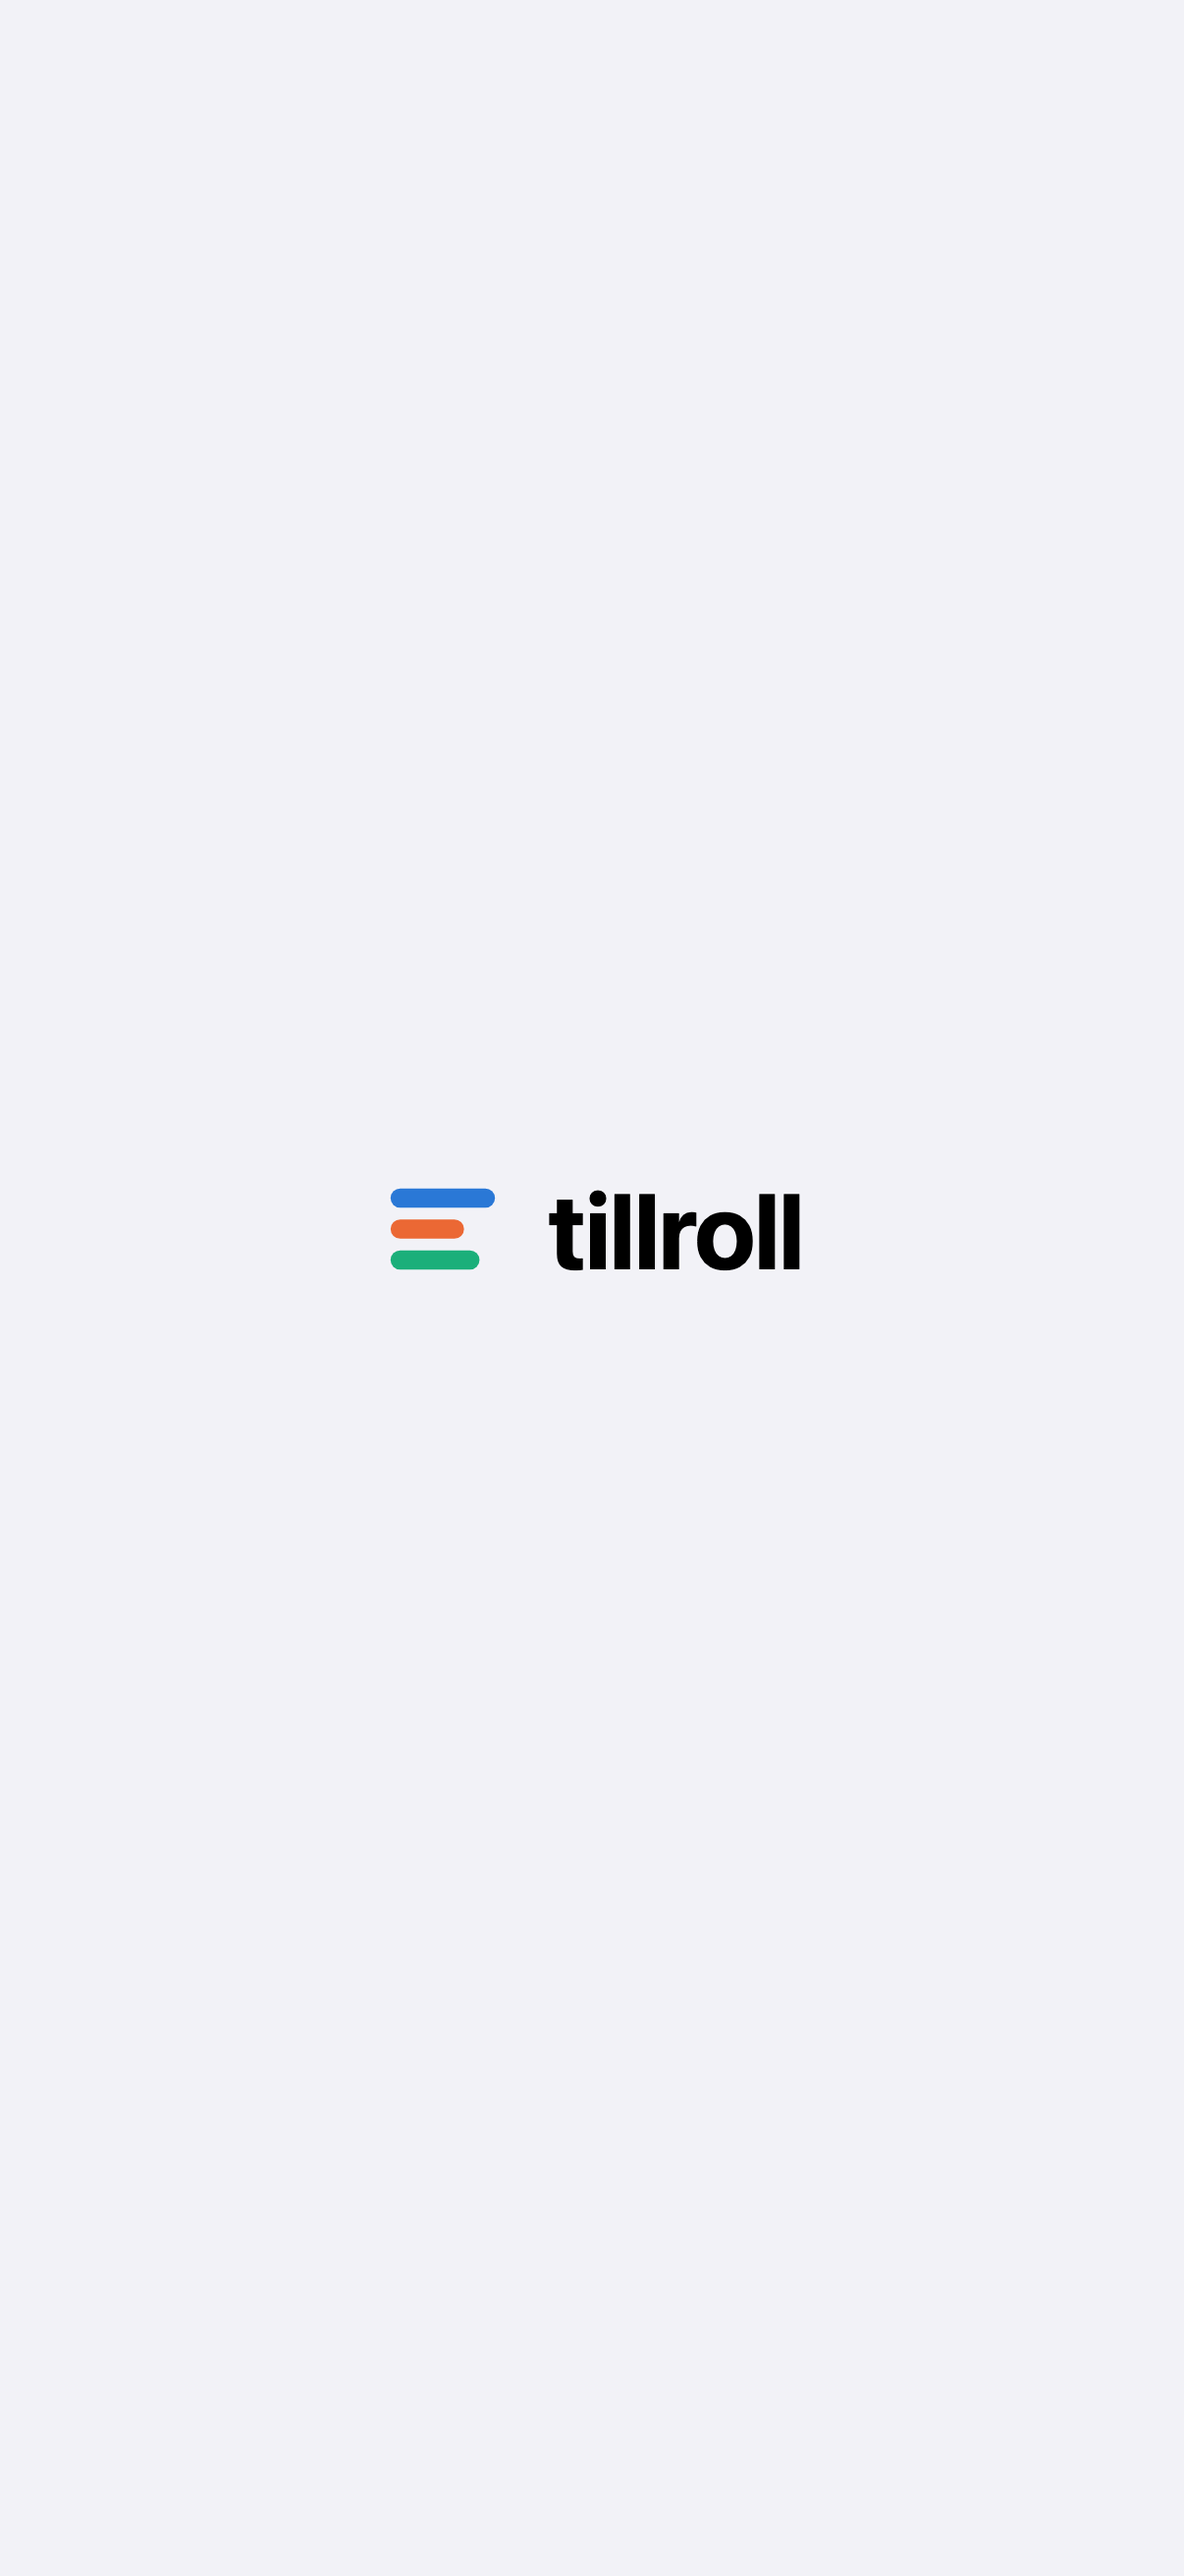
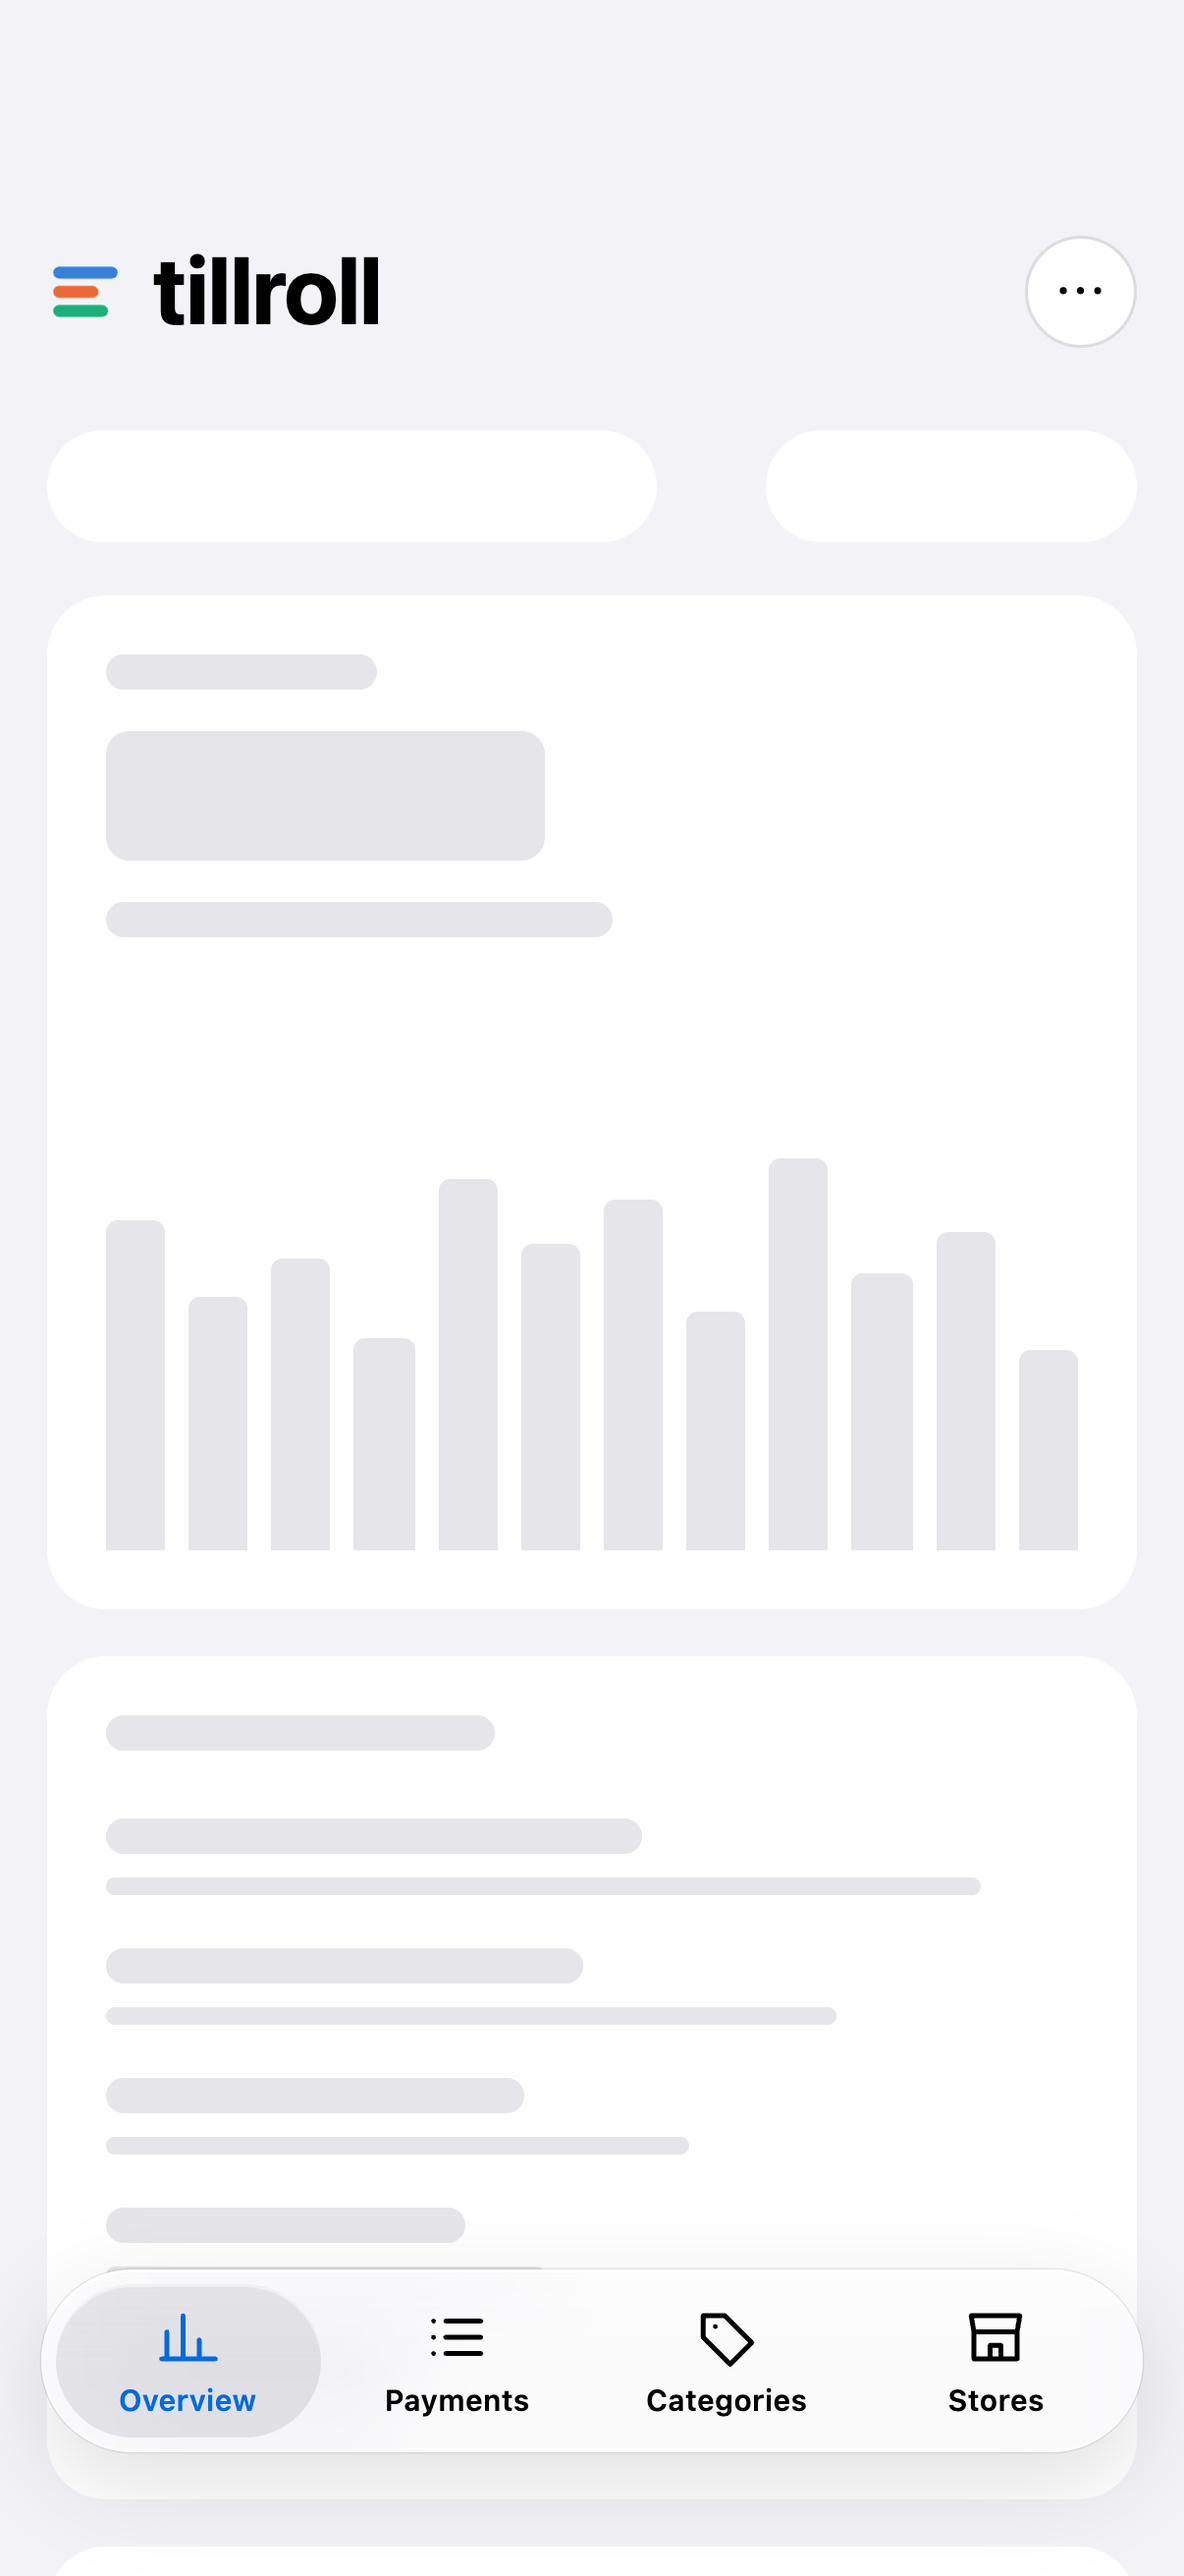
Launch image: the app's own loading screen
While iOS starts the home-screen app, the iPhone 16 Pro now shows the app's loading screen (header, grey outline, tab
bar), light or dark, so the app takes over without a jump. design/render-launch.mjs takes it from the built app in
Chrome, at the phone's size with its status bar and home bar.

diff --git a/index.html b/index.html
@@ -17,8 +17,8 @@
     <meta name="apple-mobile-web-app-title" content="Tillroll" />
     <link rel="manifest" href="/manifest.webmanifest" />
     <link rel="apple-touch-icon" href="/apple-touch-icon.png" />
-    <!-- While iOS starts the home-screen app: the mark on the page colour, not a blank screen. iOS wants one image per
-         screen size: this is the iPhone 16 Pro's (402 x 874 points at 3x), drawn as public/launch-*.png. -->
+    <!-- While iOS starts the home-screen app: the app's own loading screen, not a blank one. iOS wants one image per
+         screen size: this is the iPhone 16 Pro's (402 x 874 points at 3x), rendered by design/render-launch.mjs. -->
     <link
       rel="apple-touch-startup-image"
       href="/launch-light.png"

diff --git a/docs/visual-guidelines.md b/docs/visual-guidelines.md
@@ -56,9 +56,11 @@ live in `src/styles/`, one file per area, imported in order by `src/index.css` (
   lowercase t in San Francisco Bold, white, beside the three coloured bars, on black, full bleed (iOS rounds it). Only
   the icon uses the t. It is drawn in `design/app-icon.svg`: change that, then run `sh design/render-icons.sh`
   (headless Chrome) on a Mac, where the system type is San Francisco, to render both PNGs.
-- While iOS starts the home-screen app it shows the launch image: the logo, bars and name, centred on `--page`, light
-  or dark (`public/launch-light.png` and `public/launch-dark.png`, linked in `index.html`). iOS wants one per screen
-  size, and only the iPhone 16 Pro's is there. It is drawn in `design/launch.html`, rendered by the same script.
+- While iOS starts the home-screen app it shows the launch image: a screenshot of the app's own loading screen (header,
+  tab bar, the overview's grey outline), light or dark (`public/launch-light.png` and `public/launch-dark.png`, linked
+  in `index.html`), so the app takes over without a jump. iOS wants one per screen size, and only the iPhone 16 Pro's
+  is there. After a change to the header, the tab bar or the skeleton, run `npm run build`, then
+  `node design/render-launch.mjs`.
 
 ## Shape and space
 

diff --git a/README.md b/README.md
@@ -122,8 +122,8 @@ iOS app on every screen (the system's type, colours and controls); on a phone it
 that rise from the bottom and close with a swipe down anywhere on them. A home-screen app keeps its own cookies,
 apart from Safari's: the owner enters their key once there, through the Owner key link at the bottom of the page.
 On opening (until something is tapped) and coming back to the front (at most once a minute), it reloads itself when
-a newer deploy is out, so it never sits on an old version. While iOS starts it, an iPhone 16 Pro shows the logo
-rather than a blank screen (other screen sizes would need their own image).
+a newer deploy is out, so it never sits on an old version. While iOS starts it, an iPhone 16 Pro shows the app's
+loading screen rather than a blank one (other screen sizes would need their own image).
 
 ## Several banks
 
